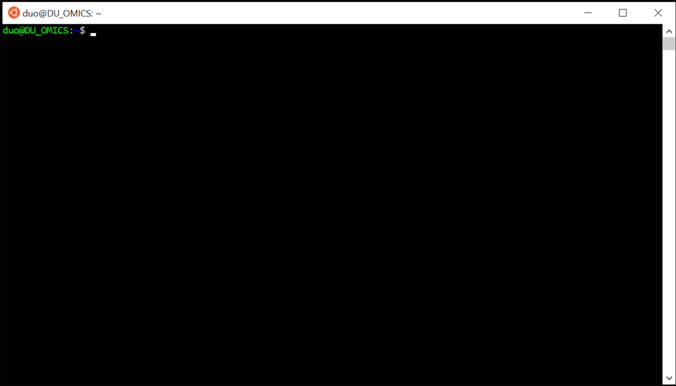
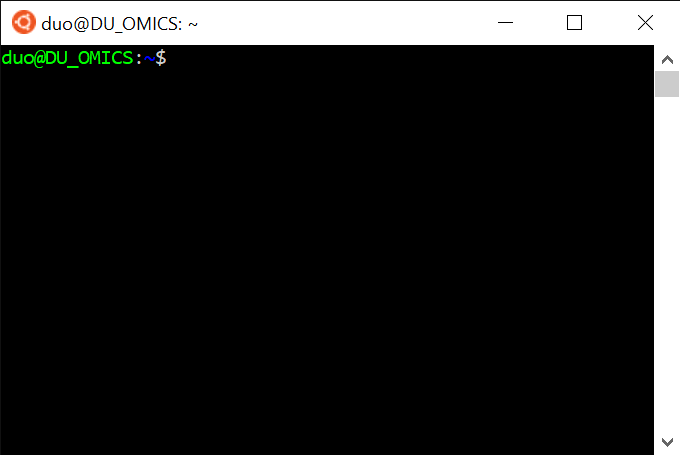
Refine instructions

Changed region(s): [[0.0, 0.0, 1.0, 1.0]]

diff --git a/tutoriel/README.md b/tutoriel/README.md
@@ -15,7 +15,7 @@ Lorsqu'on donne des ordres à un *shell*, on utilise ni menu, ni bouton, ni case
 Le *shell* fonctionne sur un ordinateur, qui n'a aucune capacité d'abstraction ni d'intuition. Pour que les ordres donnés au *shell* soient compris et exécutés, il faut respecter des règles bien précises :
 
 1. Respecter la casse, c'est-à-dire l'utilisation des majuscules et des minuscules. Par exemple la commande `ls` existe mais pas `LS` ou `Ls`.
-2. Comprendre que l'espace est utilisé pour séparer l'instruction des options et des arguments et que par conséquent ce caractère ne doit plus être utilisé dans les noms de fichiers ou de répertoires. 
+2. Comprendre que le caractère espace est utilisé pour séparer l'instruction des options et des arguments et que par conséquent ce caractère ne doit plus être utilisé dans les noms de fichiers ou de répertoires. 
 
 Enfin, un terminal (ou une console) est un logiciel graphique qui lance un *shell*.
 
@@ -33,7 +33,7 @@ pierre@orange $
 ```
 ou bien encore
 ```
-ppoulain@candihub:~$
+duo@DU_OMICS: $
 ```
 voire
 ```
@@ -48,17 +48,17 @@ Pour reproduire les commandes présentées, il ne faut pas taper ce caractère e
 ```
 $ pwd
 ```
-signifiera : tapez `pwd` dans le *shell* (sans le `$`) puis validez cette commande en pressant la touche <kbd>Entrée</kbd>.
+signifie : tapez `pwd` dans le *shell* (sans le `$`) puis validez cette commande en pressant la touche <kbd>Entrée</kbd>.
 
-## Lancement du *shell* Ubuntu sous Windows 10
+## Lancer un *shell* Ubuntu sous Windows 10
 
 Un *shell* Unix appelé « Ubuntu 20.04 » a déjà été installé sur votre session Windows. Vous trouverez plus de détails [ici](https://github.com/pierrepo/intro-wsl).
 
 Pour obtenir un *shell* :
 
-- Cliquez sur la petite loupe en bas à gauche dans la barre de menu.
-- Tapez « Ubuntu »
-- Puis cliquez sur la proposition « Ubuntu 20.04 » qui vous est faite.
+1. Cliquez sur la petite loupe en bas à gauche dans la barre de menu.
+2. Tapez « Ubuntu »
+3. Puis cliquez sur la proposition « Ubuntu 20.04 LTS » qui vous est faite.
 
 La démonstration en image est [ici](img/lancement_shell_ubuntu.png).
 
@@ -66,19 +66,21 @@ Une fois votre terminal lancé, vous devriez obtenir ceci ou quelque chose d'éq
 
 ![](img/terminal_ubuntu.png)
 
-## Positionnement dans votre répertoire utilisateur sous Windows
+## Retrouver le répertoire utilisateur Windows
 
 Votre répertoire utilisateur sous le *shell* Ubuntu n'est pas au même endroit que sous Windows.
 
-Pour vous rendre dans votre répertoire Windows où vous avez déjà vos fichiers, lancez la commande suivante :
+Pour vous rendre dans votre répertoire utilisateur Windows où vous avez déjà vos fichiers, lancez la commande suivante :
 ```
 $ cd /mnt/c/Users/omics
 ```
 
-⚠ Ne tapez pas le `$` en début de ligne et faites attention aux majuscules et au minuscules !
+🔔 Rappel : Ne tapez pas le `$` en début de ligne et faites attention aux majuscules et au minuscules (surtout pour `Users`) !
 
 
-## Exploration de répertoires et de fichiers
+## Parcourir les répertoires et les fichiers
+
+### Préparer les données
 
 Pour reproduire les exemples suivants, voici les commandes à lancer pour préparer les données utilisées :
 ```
@@ -87,9 +89,7 @@ $ tar zxvf unix.tgz
 $ cd unix
 ```
 
-Ces commandes seront en partie expliquées plus loin.
-
-Pour copier / coller entre Windows et le *shell* Linux :
+Ces commandes seront en partie expliquées plus loin. Pour ne pas réécrire complètement ces commandes, voici comment copier / coller entre Windows et le *shell* Linux :
 
 - Pour copier depuis Windows (<kbd>Ctrl</kbd>+<kbd>C</kbd>) puis coller dans le *shell* : clic droit de la souris.
 - Pour copier depuis le *shell* (<kbd>Ctrl</kbd>+<kbd>Maj</kbd>+<kbd>C</kbd>) puis coller dans Windows (<kbd>Ctrl</kbd>+<kbd>V</kbd>)
@@ -134,7 +134,7 @@ $ ls
 genomes  paper.pdf  protein.txt  shopping.txt  transferrin.csv	transferrin.tsv
 ```
 
-On peut modifier le comportement par défaut d'une commande avec une option (ou plusieurs). Cette option est séparée de la commande par un ou plusieurs espaces.
+On peut modifier le comportement par défaut d'une commande avec une (ou plusieurs) option(s). Cette option est séparée de la commande par un ou plusieurs espaces.
 
 Par exemple avec `-F` :
 ```
@@ -324,10 +324,10 @@ $ pwd
 /home/duo
 ```
 
-*Remarque* : 
+Remarque : 
 
 - Simplement taper la commande `cd` (sans argument) ramène aussi l'utilisateur dans son répertoire personnel.
-- Dans votre situation ce n'est pas très pratique car votre répertoire utilisateur dans le *shell* Ubuntu est différent de celui sous Windows et dans ce dernier que vous souhaitez travailler.
+- Dans votre situation ce n'est pas très pratique car votre répertoire utilisateur dans le *shell* Ubuntu (`/home/duo`) est différent de celui sous Windows (`/mnt/c/Users/omics/`) et c'est dans ce dernier que vous souhaitez travailler.
 
 
 ### Créer un répertoire : `mkdir`
